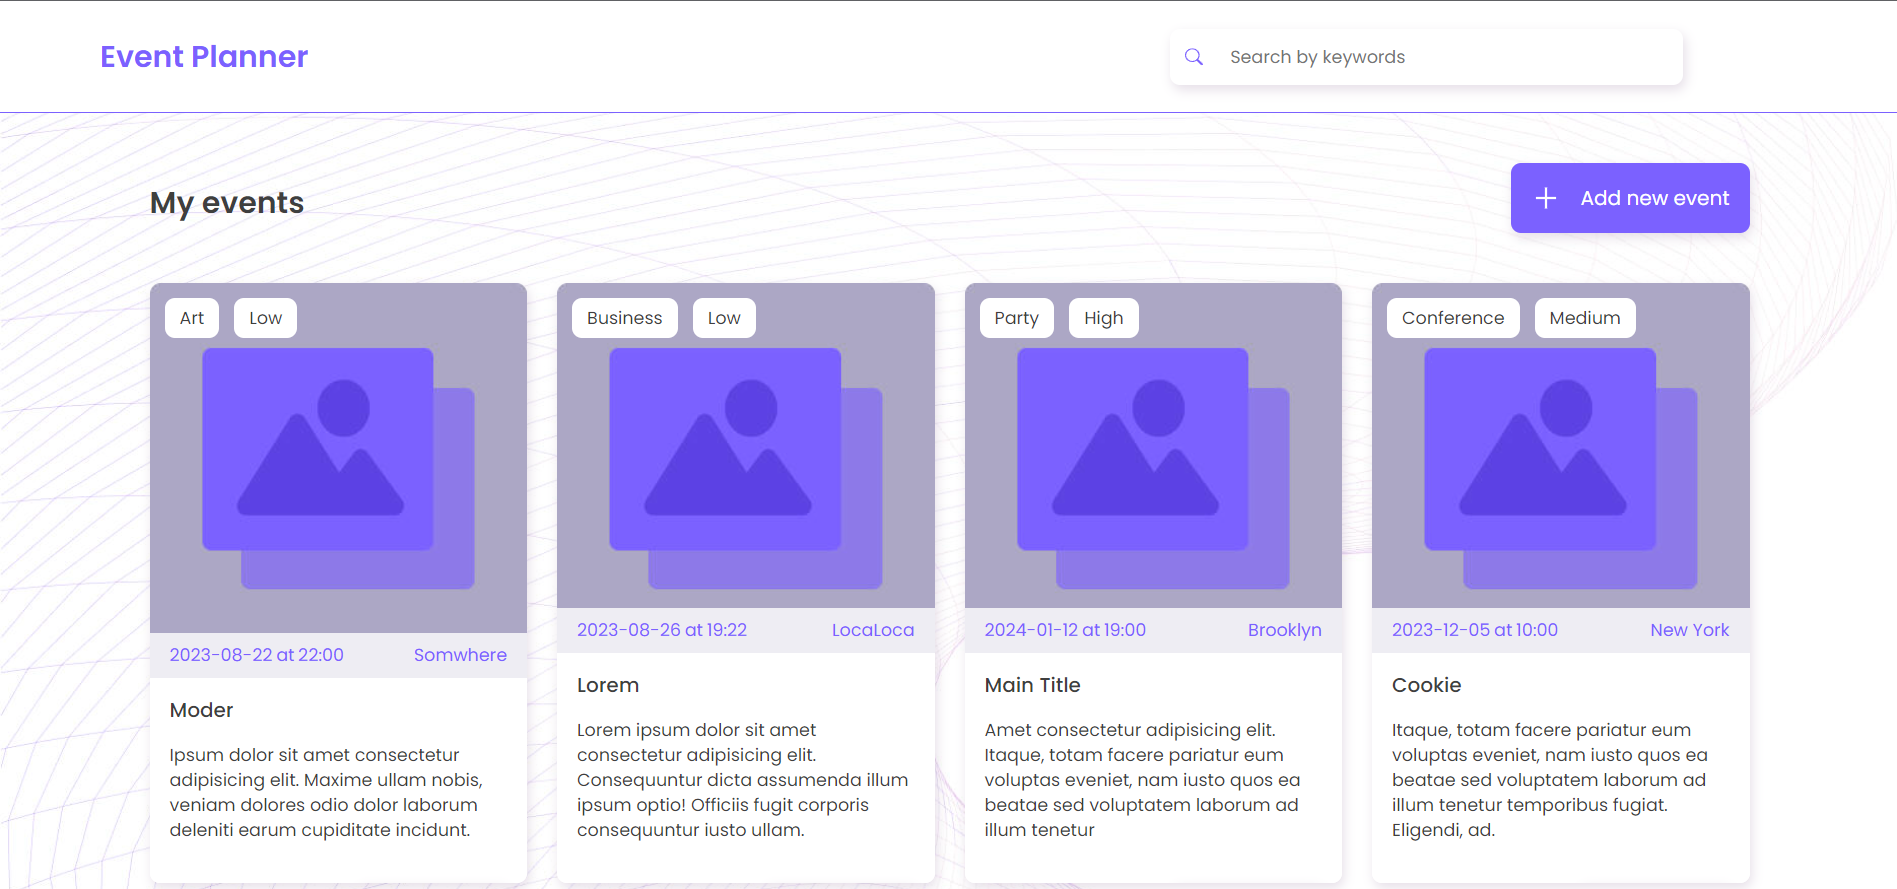
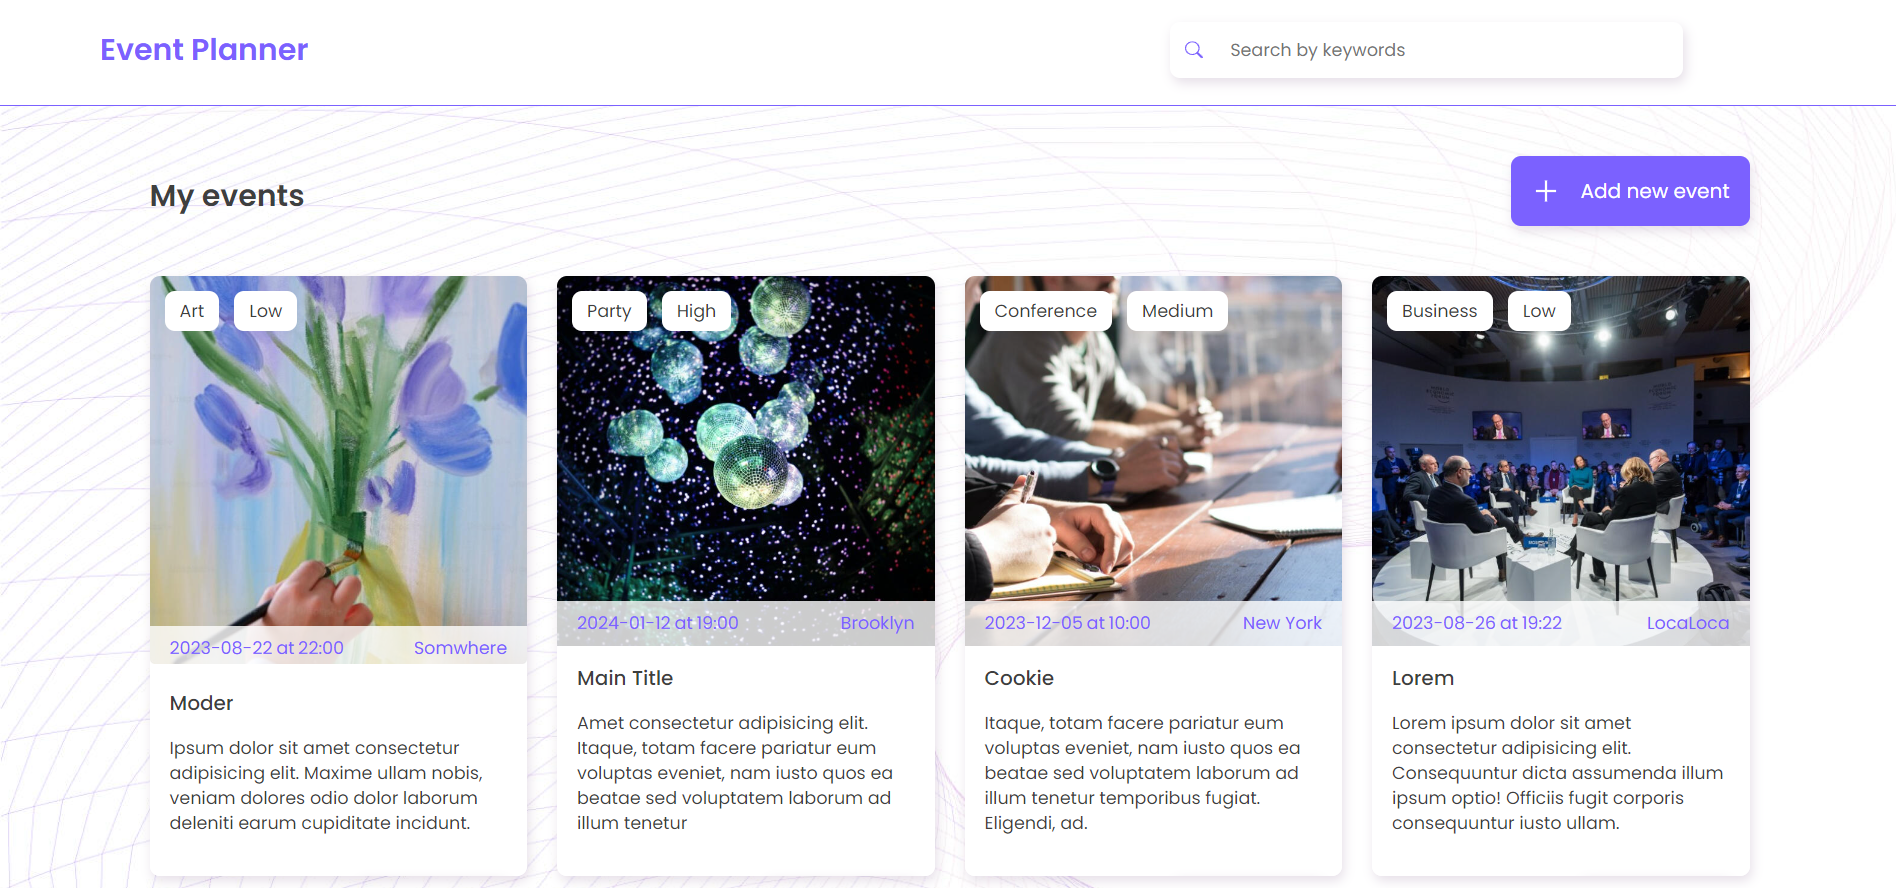
add images by category

diff --git a/src/Components/ImgElement/ImgElement.tsx b/src/Components/ImgElement/ImgElement.tsx
@@ -1,0 +1,52 @@
+import art from "../../images/art.jpg";
+import business from "../../images/business.jpg";
+import conference from "../../images/conference.jpg";
+import music from "../../images/music.jpg";
+import party from "../../images/party.jpg";
+import sport from "../../images/sport.jpg";
+import workshop from "../../images/workshop.jpg";
+import defaultPicture from "../../images/default-img-small.jpg";
+
+interface EventProp {
+  eventCategory: string;
+  styleClass: string;
+}
+
+export default function ImgElement({ styleClass, eventCategory }: EventProp) {
+  let imageType = defaultPicture;
+
+  switch (eventCategory) {
+    case "Art":
+      imageType = art;
+      break;
+    case "Business":
+      imageType = business;
+      break;
+    case "Conference":
+      imageType = conference;
+      break;
+    case "Music":
+      imageType = music;
+      break;
+    case "Party":
+      imageType = party;
+      break;
+    case "Sport":
+      imageType = sport;
+      break;
+    case "Workshop":
+      imageType = workshop;
+      break;
+    default:
+      break;
+  }
+
+  return (
+    <img
+      className={styleClass}
+      loading="lazy"
+      src={imageType}
+      alt={`picture ${imageType} card background for a event planner`}
+    />
+  );
+}

diff --git a/src/Components/DetailsEvent/detailsEvent.scss b/src/Components/DetailsEvent/detailsEvent.scss
@@ -4,7 +4,7 @@
 
 .event-box {
   margin-bottom: 40px;
-  
+
   @include lgDesBreakPoint {
     display: grid;
     justify-content: center;
@@ -16,10 +16,17 @@
 }
 
 .event-list {
+  position: relative;
+  overflow: hidden;
   border-radius: 8px;
   background: getVariable($colors, "white");
   box-shadow: 2px 4px 9px 0px #a68dae47;
   margin-top: 24px;
+  width: 272px;
+
+  @include mdTabBreakPoint {
+    width: 688px;
+  }
 
   @include lgDesBreakPoint {
     width: 628px;
@@ -27,11 +34,18 @@
 }
 
 .event-img {
+  display: block;
   width: 100%;
-  height: 100%;
+}
+
+.event-item__description {
+  display: block;
+  position: absolute;
+  bottom: 0;
 }
 
 .event-list__details {
+  background: getVariable($colors, "white");
   padding: 24px 16px 40px 16px;
 
   @include mdTabBreakPoint {
@@ -85,8 +99,8 @@
   color: getVariable($colors, "accent");
 
   & + span {
-      margin: 0 3px;
-    }
+    margin: 0 3px;
+  }
 }
 
 .event-item__btns {

diff --git a/src/Components/ListEvents/ListEvents.tsx b/src/Components/ListEvents/ListEvents.tsx
@@ -1,7 +1,7 @@
 import { NavLink } from "react-router-dom";
 import { useMyEvents } from "../../pages/MainPage";
 import BtnCreateEvent from "../BtnCreateEvent/BtnCreateEvent";
-import defaulPicture from "../../images/default-img-small.jpg";
+import ImgElement from "../ImgElement/ImgElement";
 
 export default function ListEvents() {
   const { events } = useMyEvents();
@@ -28,11 +28,9 @@ export default function ListEvents() {
               <li className="card" key={id}>
                 <ul>
                   <li>
-                    <img
-                      className="card-img"
-                      src={defaulPicture}
-                      loading="lazy"
-                      alt="picture of event"
+                    <ImgElement
+                      styleClass="card-img"
+                      eventCategory={category}
                     />
                   </li>
                   <li className="item-card__params">

diff --git a/src/Components/CustomSelect/CustomSelect.tsx b/src/Components/CustomSelect/CustomSelect.tsx
@@ -3,19 +3,19 @@ import { useState } from "react";
 interface CustomSelectProps {
   inputId: string;
   options: string[];
-  edittValue?: string;
+  editValue?: string;
   onChange: (selectedOption: string) => void;
 }
 
 export default function CustomSelect({
   inputId,
   options,
-  edittValue,
+  editValue,
   onChange,
 }: CustomSelectProps) {
   const [isOpen, setIsOpen] = useState(false);
   const [selectedOption, setSelectedOption] = useState<string | undefined>(
-    edittValue
+    editValue
   );
 
   const toggleDropdown = () => {
@@ -35,7 +35,7 @@ export default function CustomSelect({
           className="input dropdown-button"
           type="button"
           id={inputId}
-          value={selectedOption ? selectedOption : edittValue}
+          value={selectedOption ? selectedOption : editValue}
           onClick={toggleDropdown}
         />
         {isOpen && (

diff --git a/src/Components/DetailsEvent/DetailsEvent.tsx b/src/Components/DetailsEvent/DetailsEvent.tsx
@@ -1,5 +1,6 @@
 import { Obj } from "../../pages/MainPage";
 import defaultPic from "../../images/default-img-large.jpg";
+import ImgElement from "../ImgElement/ImgElement";
 
 export default function DetailsEvent({
   currentEvent,
@@ -17,12 +18,7 @@ export default function DetailsEvent({
       <h2 className="event-title">{title}</h2>
       <ul className="event-list">
         <li className="event-item__img">
-          <img
-            className="event-img"
-            src={defaultPic}
-            loading="lazy"
-            alt="category img"
-          />
+          <ImgElement styleClass="event-img" eventCategory={category} />
         </li>
         <li className="event-item__description">
           <ul className="event-list__details">

diff --git a/src/Components/FormEvent/FormEvent.tsx b/src/Components/FormEvent/FormEvent.tsx
@@ -176,7 +176,7 @@ export default function FormEvent({ eventId, editorshipEvent }: Props) {
                 inputId="category"
                 options={categoryOption}
                 onChange={(value) => field.onChange(value)}
-                edittValue={field.value}
+                editValue={field.value}
               />
             )}
           />
@@ -215,7 +215,7 @@ export default function FormEvent({ eventId, editorshipEvent }: Props) {
                 inputId="priority"
                 options={priorityOptions}
                 onChange={(value) => field.onChange(value)}
-                edittValue={field.value}
+                editValue={field.value}
               />
             )}
           />
